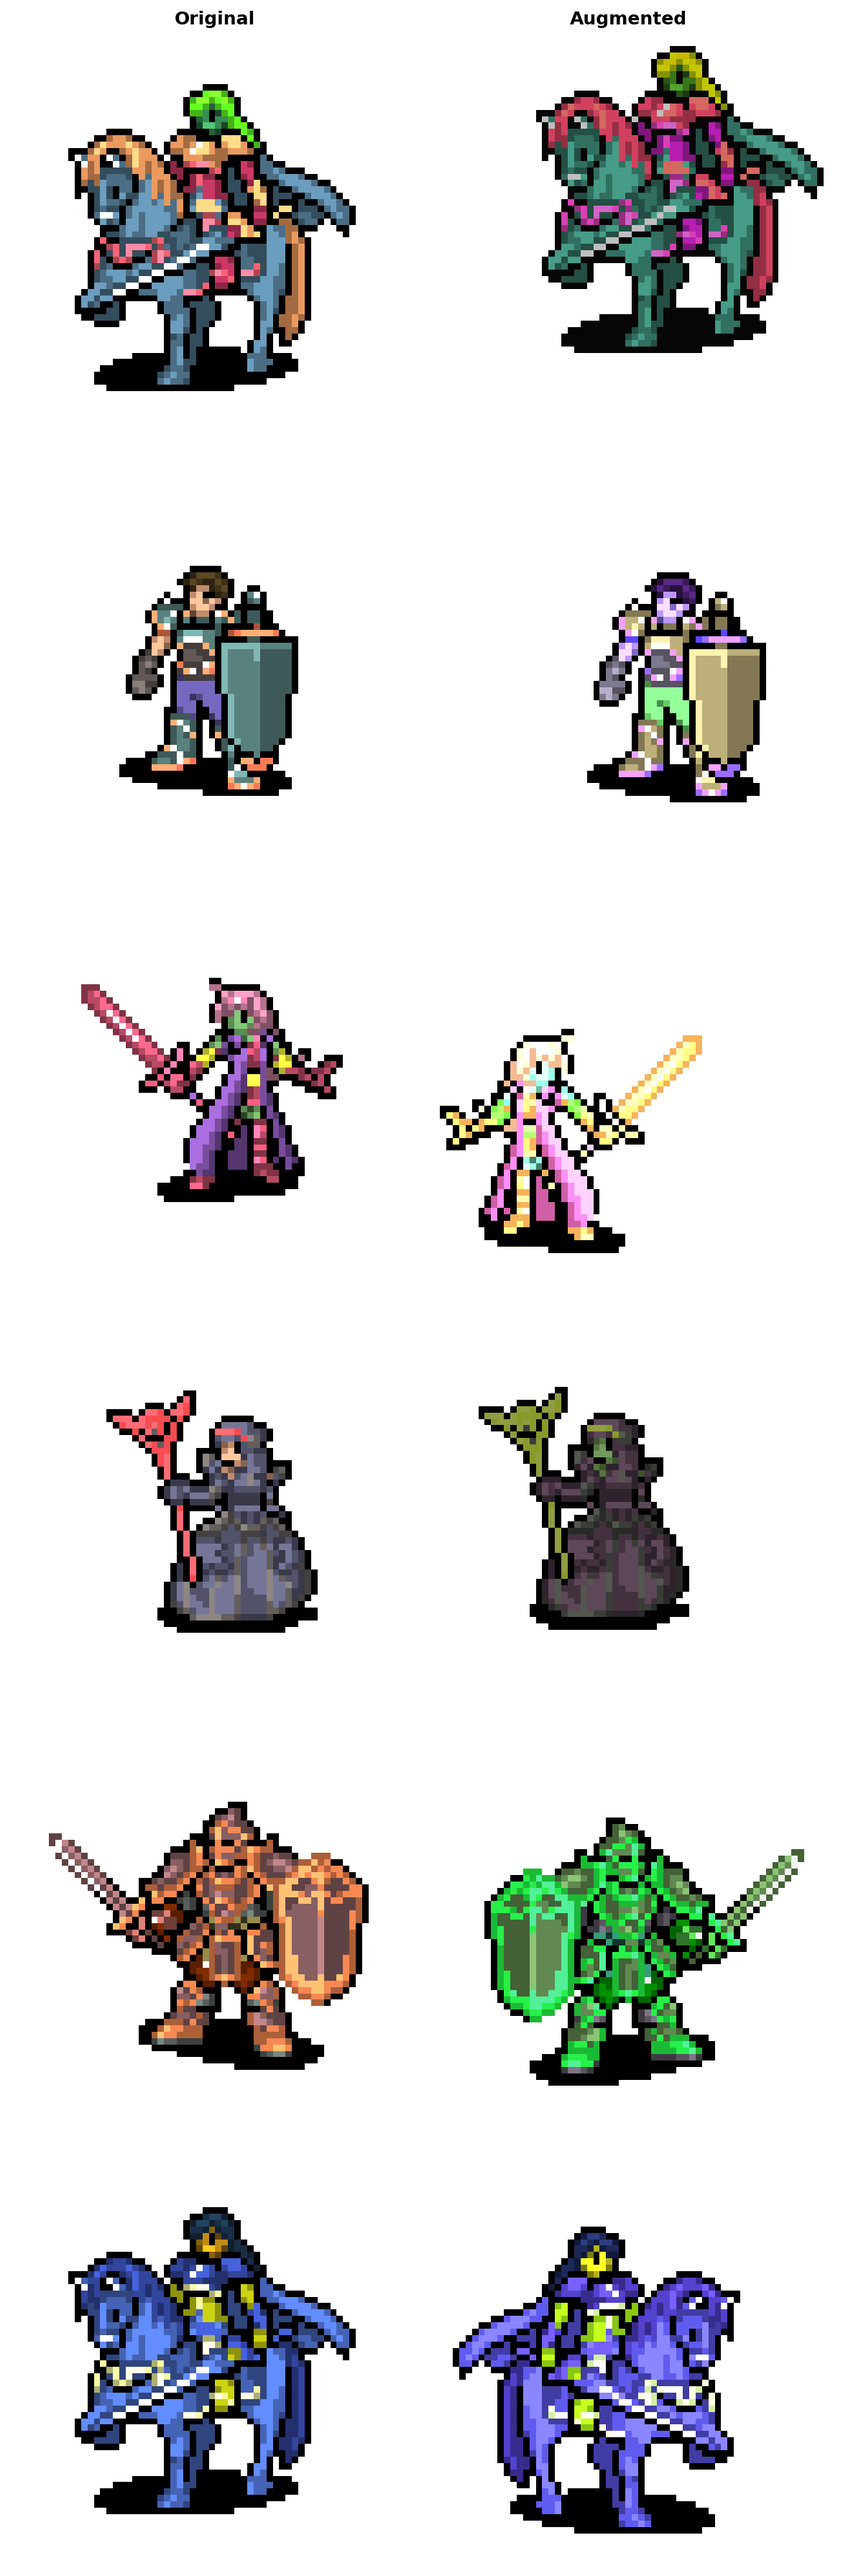
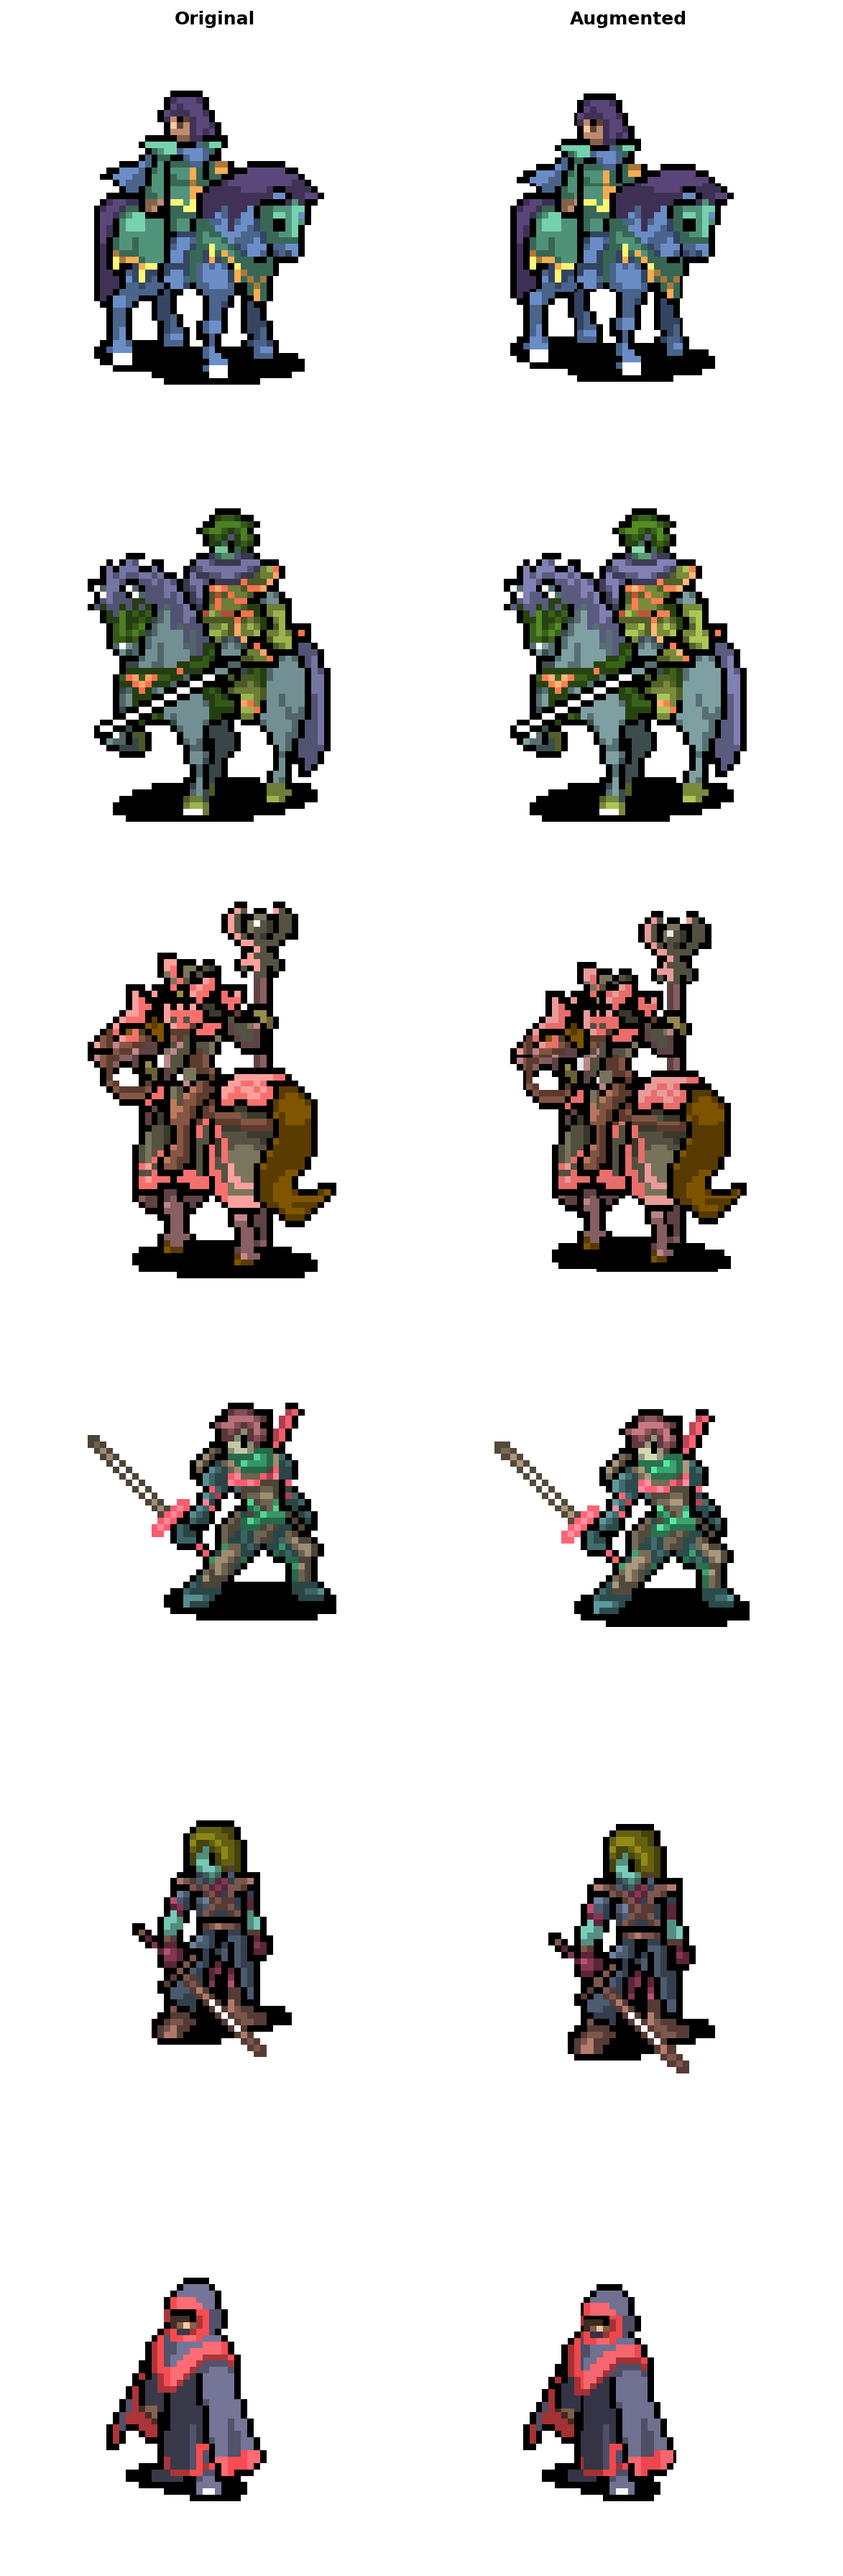
Update augmentation

diff --git a/sampling/sampleable.py b/sampling/sampleable.py
@@ -59,7 +59,8 @@ class PixelArtSampler(nn.Module, IterableSampleable):
     def __init__(self, root_dir: str = "/dataset/images",
                  random_seed: int = 42,
                  train_factor: float = 0.70,
-                 val_factor: float = 0.15) -> None:
+                 val_factor: float = 0.15,
+                 augment_train: bool = True) -> None:
         super().__init__()
 
         # Collect image paths
@@ -83,7 +84,7 @@ class PixelArtSampler(nn.Module, IterableSampleable):
         test_idx = indices[train_size + val_size:]
 
         # Assign datasets
-        self.data_train = PixelArtDataset([all_images[i] for i in train_idx], augment=True)
+        self.data_train = PixelArtDataset([all_images[i] for i in train_idx], augment=augment_train)
         self.data_val   = PixelArtDataset([all_images[i] for i in val_idx], augment=False)
         self.data_test  = PixelArtDataset([all_images[i] for i in test_idx], augment=False)
 

diff --git a/dataset/pixel_art_dataset.py b/dataset/pixel_art_dataset.py
@@ -35,14 +35,13 @@ class PixelArtDataset(Dataset):
         # Augmentation + Preprocessing
         self.augment_transform = transforms.Compose([
             transforms.Resize((128, 128)),
-            transforms.RandomHorizontalFlip(p=0.5),
-            RGBAColorJitter(0.5, 0.5, 0.6, 0.5),
+            RGBAColorJitter(0.1, 0.1, 0, 0),
             transforms.RandomAffine(
                 degrees=0,
-                translate=(0.15, 0.15),
+                translate=(0.025, 0.025),
+                scale=(0.95, 1.05),
                 interpolation=transforms.InterpolationMode.NEAREST,
             ),
-            RandomChannelDropout(0.1),
             transforms.ToTensor(),
             transforms.Normalize((0.5, 0.5, 0.5, 0.5),
                                  (0.5, 0.5, 0.5, 0.5)),
